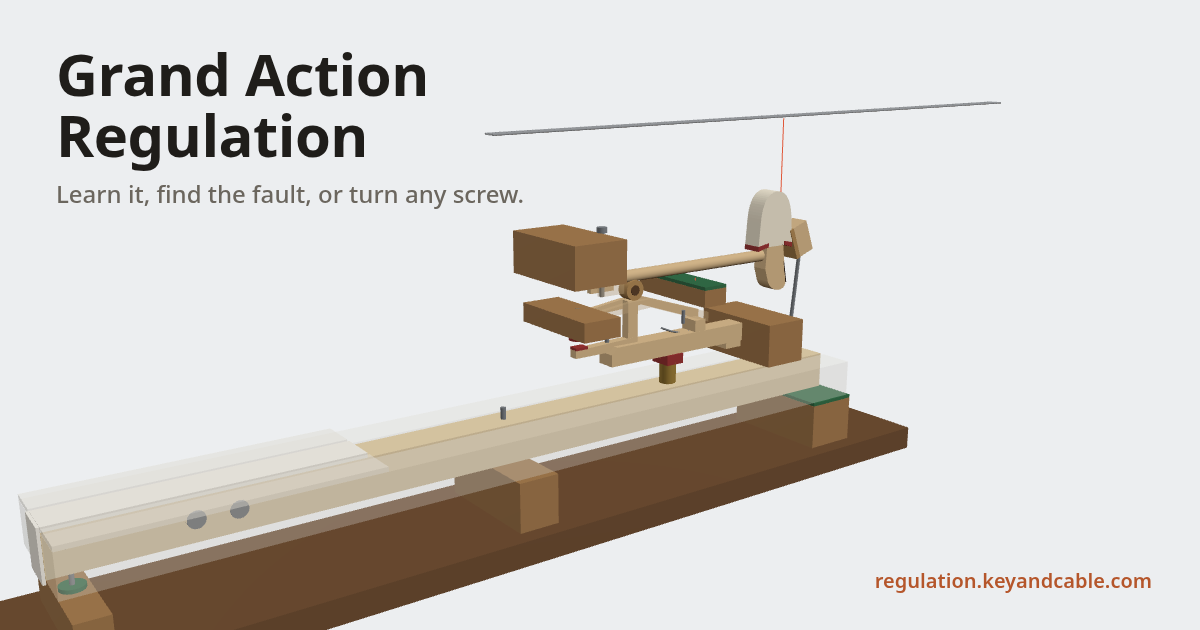
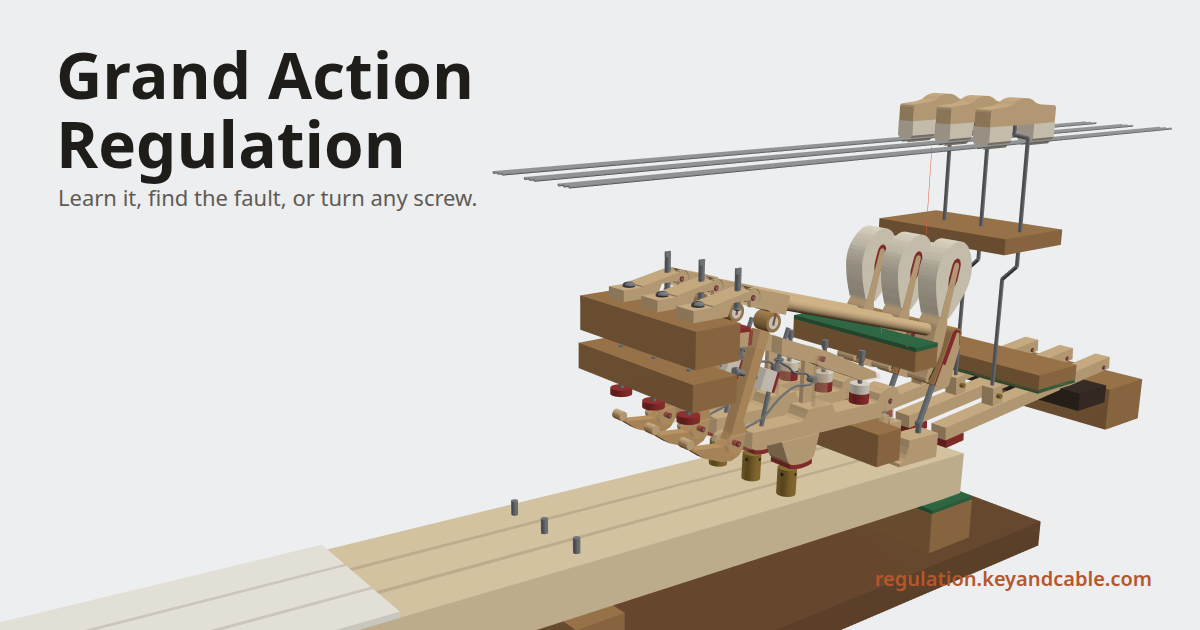
Link card from the current model (Greg: the card showed an old one)
card.png was the first day's single see-through key; it is now rendered from the app as it is: the Sandbox's three
keys at factory in the 3/4 view, with dampers, same title and words. tests/make-card.cjs makes it again. The image
tags ask for card.png?v=2 so sites that cached the old picture fetch the new one; the alt text describes three notes.

diff --git a/index.html b/index.html
@@ -13,14 +13,14 @@
 <meta property="og:title" content="Grand Action Regulation">
 <meta property="og:description" content="A 3D grand piano action you can regulate: learn each step, find the fault from a customer's complaint, or turn any screw and watch what moves.">
 <meta property="og:url" content="https://regulation.keyandcable.com/">
-<meta property="og:image" content="https://regulation.keyandcable.com/card.png">
+<meta property="og:image" content="https://regulation.keyandcable.com/card.png?v=2">
 <meta property="og:image:width" content="1200">
 <meta property="og:image:height" content="630">
-<meta property="og:image:alt" content="A 3D grand piano action: key, wippen, jack, repetition lever, hammer and backcheck under a string, with the title Grand Action Regulation">
+<meta property="og:image:alt" content="Three notes of a 3D grand piano action: keys, wippens, repetition levers and backchecks, the hammers under their strings and the dampers on top, with the title Grand Action Regulation">
 <meta name="twitter:card" content="summary_large_image">
 <meta name="twitter:title" content="Grand Action Regulation">
 <meta name="twitter:description" content="A 3D grand piano action you can regulate: learn each step, find the fault from a customer's complaint, or turn any screw and watch what moves.">
-<meta name="twitter:image" content="https://regulation.keyandcable.com/card.png">
+<meta name="twitter:image" content="https://regulation.keyandcable.com/card.png?v=2">
 <link rel="icon" href="icons/icon.svg" type="image/svg+xml">
 <link rel="icon" href="icons/icon-32.png" type="image/png" sizes="32x32">
 <link rel="apple-touch-icon" href="icons/apple-touch-icon.png">
